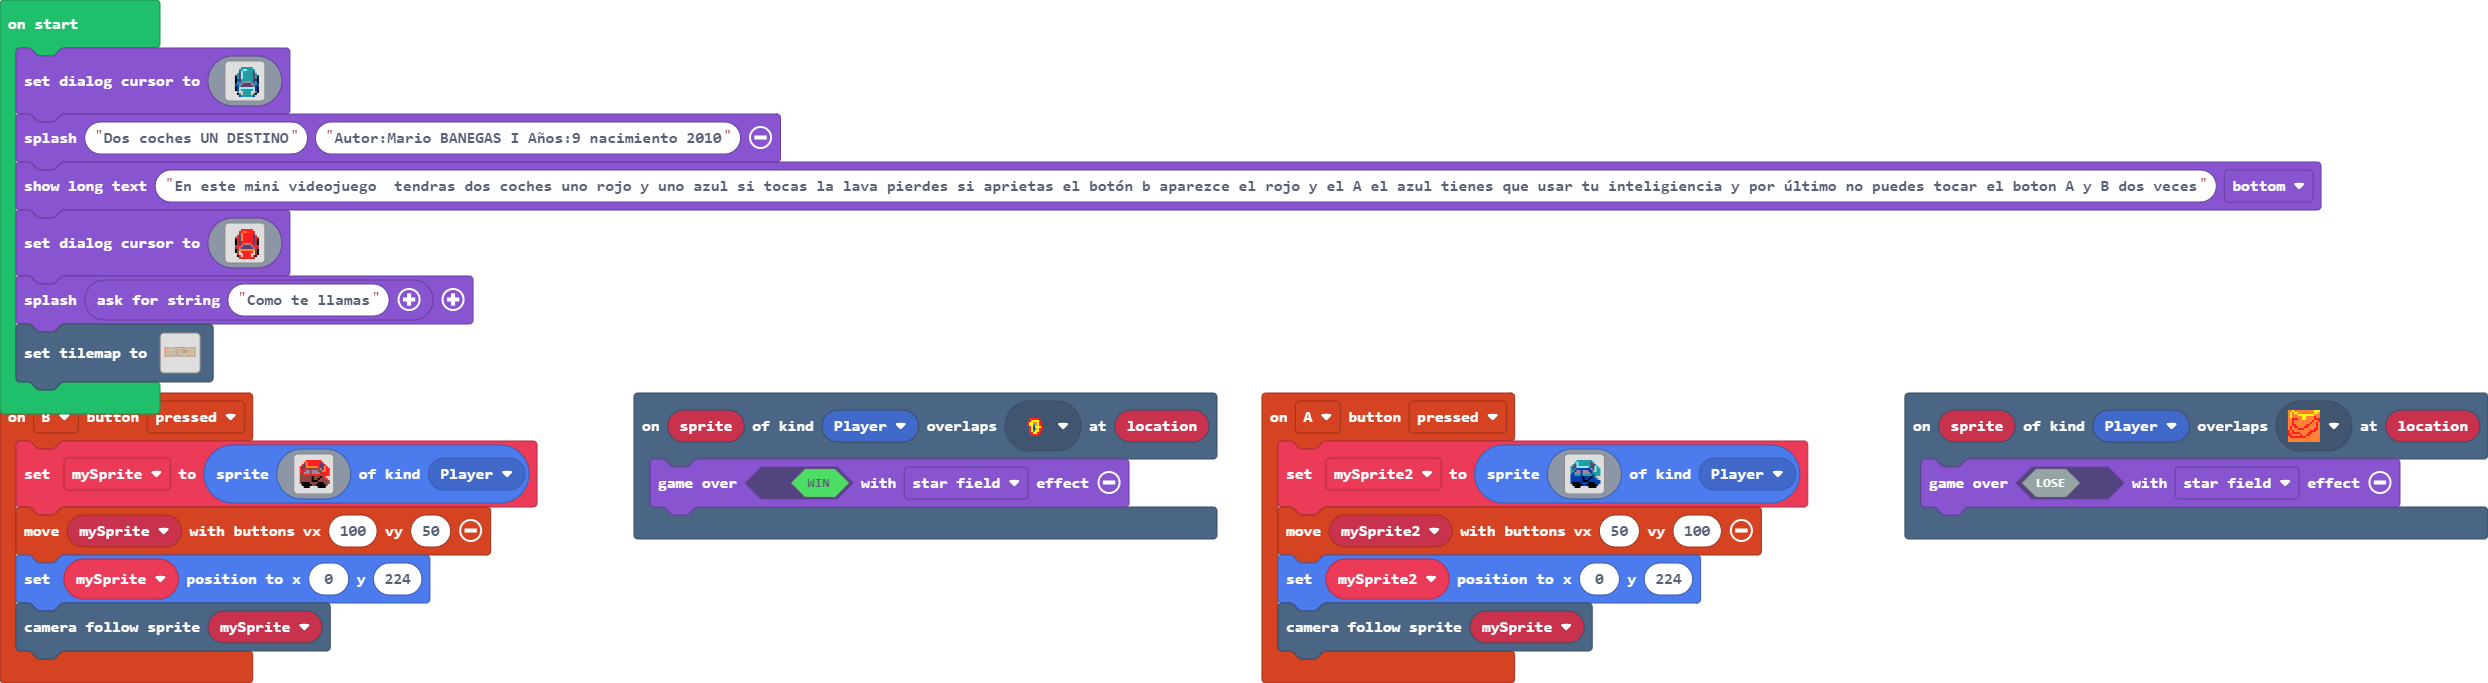
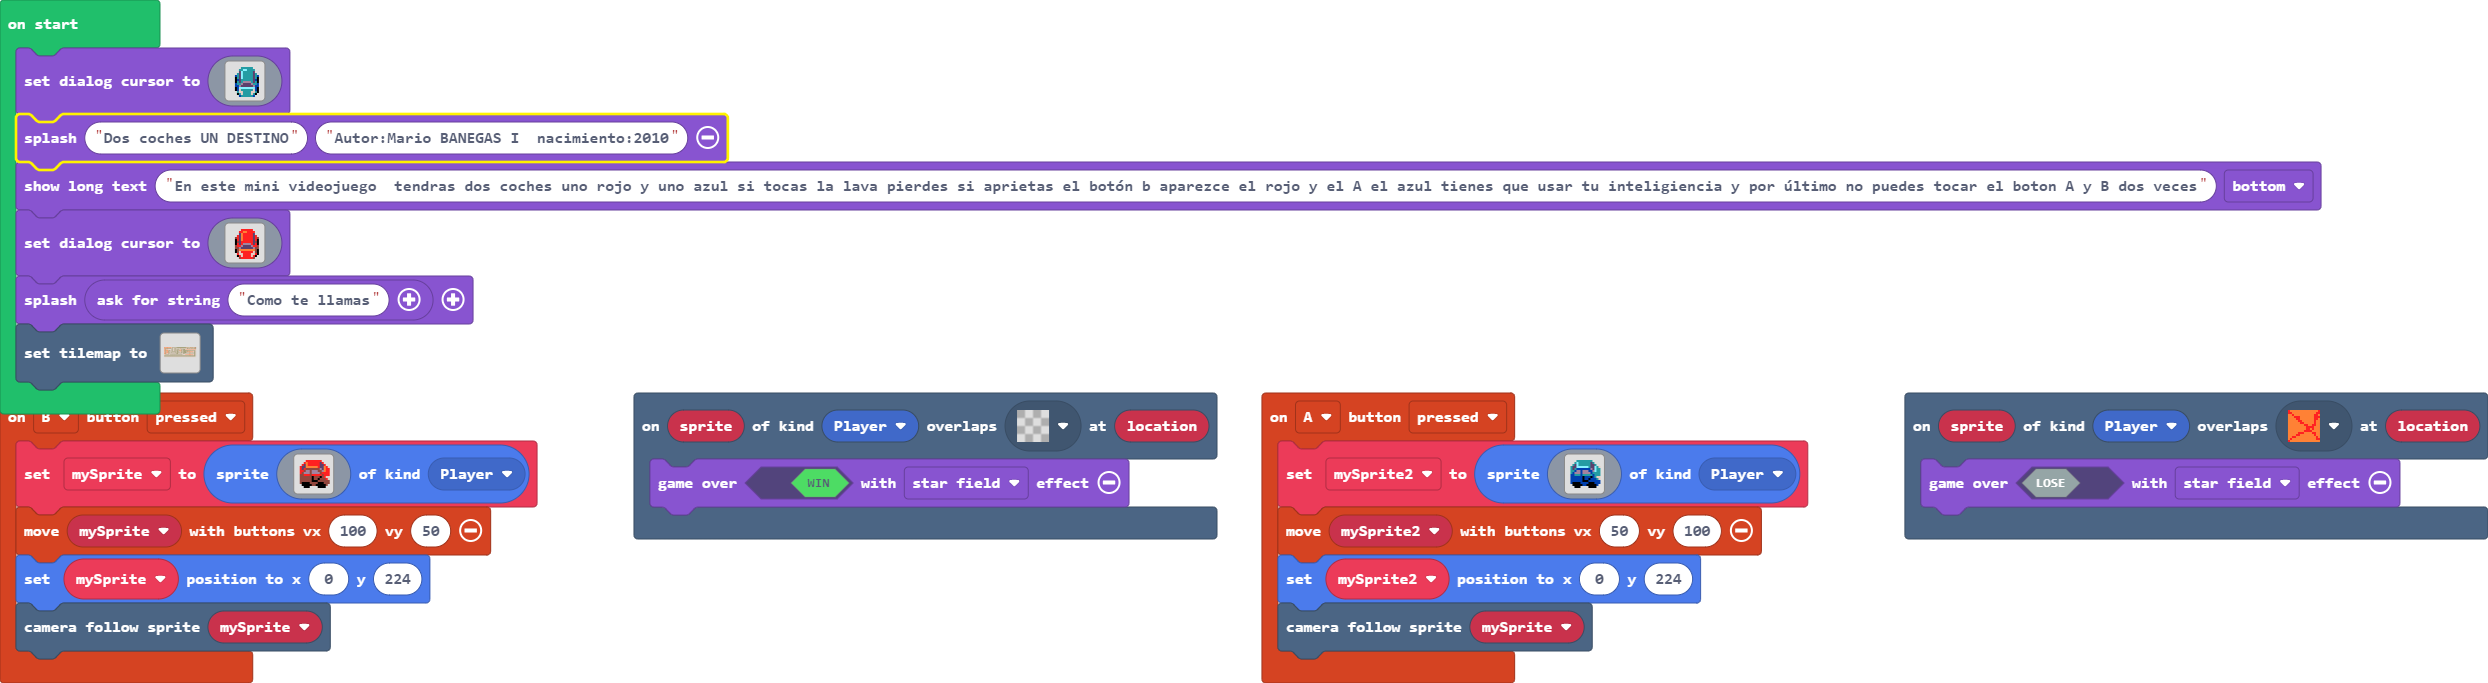
Update main.blocks, main.ts

Changed region(s): [[0.0, 0.1537, 0.3404, 0.246], [0.4023, 0.5842, 0.4333, 0.6457], [0.8975, 0.6149, 0.9285, 0.6457]]

diff --git a/main.ts b/main.ts
@@ -70,7 +70,7 @@ game.setDialogCursor(img`
     . . . . f 6 d 6 6 6 6 d 6 f . . 
     . . . . . 8 6 6 6 6 6 6 8 . . . 
     `)
-game.splash("Dos coches UN DESTINO", "Autor:Mario BANEGAS I Años:9 nacimiento 2010")
+game.splash("Dos coches UN DESTINO", "Autor:Mario BANEGAS I  nacimiento:2010")
 game.showLongText("En este mini videojuego  tendras dos coches uno rojo y uno azul si tocas la lava pierdes si aprietas el botón b aparezce el rojo y el A el azul tienes que usar tu inteligiencia y por último no puedes tocar el boton A y B dos veces", DialogLayout.Bottom)
 game.setDialogCursor(img`
     . . . . . . . . . . . . . . . . 
